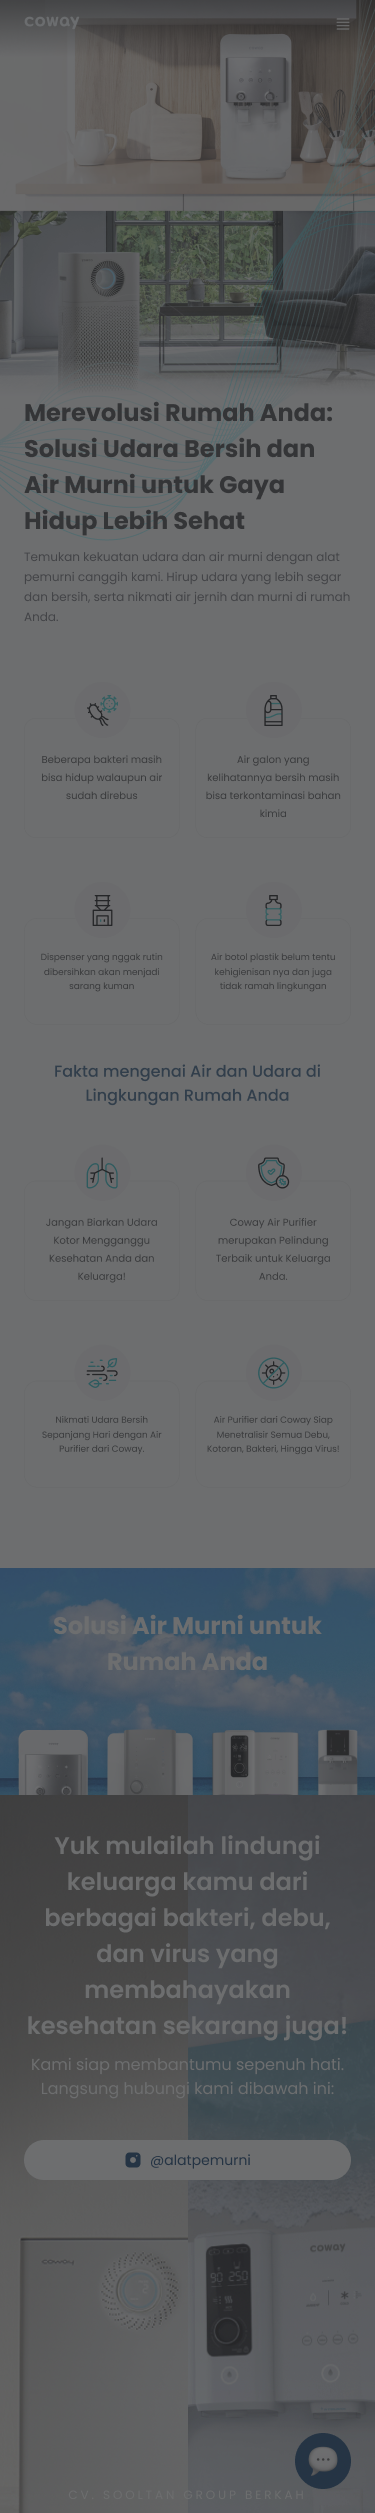
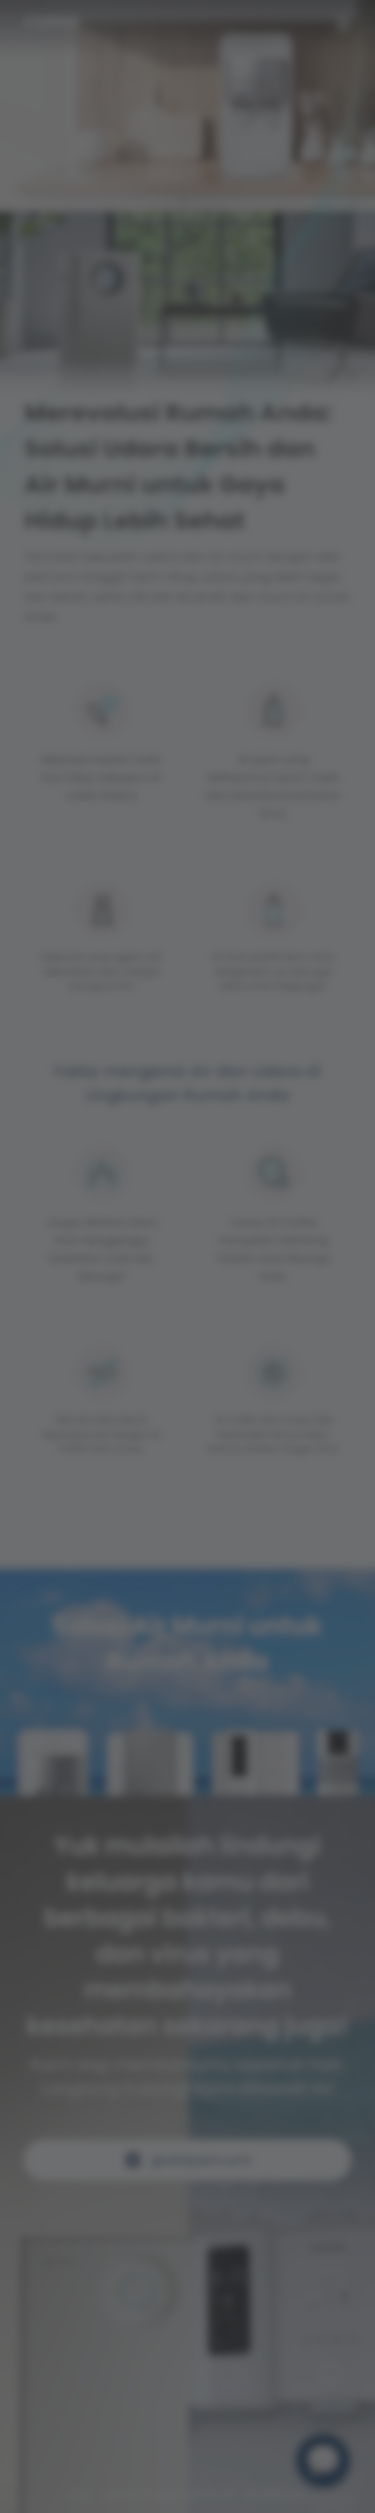
aktifin navbar & ganti bg

diff --git a/alatpemurni/index.html b/alatpemurni/index.html
@@ -28,6 +28,7 @@
   </head>
   <body>
     <div class="bg-pop-up" id="bg-pop-up" style="display: none">
+      <div class="blur"></div>
       <div class="pop-up" id="pop-up" style="display: none">
         <div class="pop-up-ornament">
           <img draggable="false" class="ornament1" src="assets/popup/ornament1.png" alt="ornament" />
@@ -178,21 +179,21 @@
 
     <div class="content" id="content" style="overflow-x: hidden;">
       <div class="blur-content" id="blur" style="display: none"></div>
-      <div class="hero-container">
+      <div class="hero-container" id="hero-container">
         <div class="navbar">
           <a href="/"><img src="assets/hero/Coway_logo.png" alt="Logo" /></a>
           <ul class="navbar-content">
             <li>
-              <a href="#">Beranda</a>
+              <a href="#hero-container">Beranda</a>
             </li>
             <li>
-              <a href="#">Produk</a>
+              <a href="#produk-container">Produk</a>
             </li>
             <li>
-              <a href="#">Service</a>
+              <a href="#reparation-container">Service</a>
             </li>
             <li>
-              <a href="#">Tentang Kami</a>
+              <a href="#why-container">Tentang Kami</a>
             </li>
           </ul>
           <a class="hamburger" href="javascript:void(0);" onclick="openLayer()">
@@ -221,16 +222,16 @@
             </div>
             <ul class="layer-content">
               <li>
-                <a href="#">Beranda</a>
+                <a href="#hero-container">Beranda</a>
               </li>
               <li>
-                <a href="#">Produk</a>
+                <a href="#produk-container">Produk</a>
               </li>
               <li>
-                <a href="#">Service</a>
+                <a href="#reparation-container">Service</a>
               </li>
               <li>
-                <a href="#">Tentang Kami</a>
+                <a href="#why-container">Tentang Kami</a>
               </li>
             </ul>
           </div>
@@ -368,7 +369,7 @@
         </div>
       </div>
 
-      <div class="produk-container">
+      <div class="produk-container" id="produk-container">
         <div class="produk-card">
           <img class="produk-card-img" src="assets/solusi/air1.png" alt="air1" />
           <div class="produk-card-desc">
@@ -825,7 +826,7 @@
         </div>
       </div>
 
-      <div class="why-container">
+      <div class="why-container" id="why-container">
         <div class="why-head">
           <h3>KENAPA</h3>
           <h1>Harus Memilih Air Purifier dari Coway?</h1>
@@ -907,7 +908,7 @@
         </div>
       </div>
 
-      <div class="reparation-container">
+      <div class="reparation-container" id="reparation-container">
         <div class="reparation-head">
           <p>KAMI SIAP MEMBANTU ANDA</p>
           <h3>Nikmati Pelayanan Hearts Service yang Luar Biasa!</h3>

diff --git a/alatpemurni/js/app.js b/alatpemurni/js/app.js
@@ -21,7 +21,7 @@ function sendWhatsAppVoucher() {
 
     var params = {
       sendername: email,
-      to: "alatpemurni@gmail.com",
+      to: "budakit.id@gmail.com",
       subject: email + " mendapatkan voucher!",
       name: name,
       phone: phone,
@@ -32,7 +32,7 @@ function sendWhatsAppVoucher() {
     var templateID = "template_xiw5njp";
 
     emailjs.send(serviceID, templateID, params);
-    alert("Permintaan berhasil terkirim");
+    alert("Pesan berhasil terkirim");
     
     var now = new Date();
     var expire = new Date();
@@ -71,7 +71,7 @@ function sendWhatsAppForm() {
       
       var params2 = {
         sendername: email,
-        to: "alatpemurni@gmail.com",
+        to: "budakit.id@gmail.com",
         subject: "Mendapatkan Pesan dari " + email,
         name: nama,
         phone: phone,
@@ -87,7 +87,7 @@ function sendWhatsAppForm() {
       };
       
       emailjs.send("service_1ez7pob", "template_uy8h4gm", params2);
-      alert("Permintaan berhasil terkirim");
+      alert("Pesan berhasil terkirim");
     })();
     
     var url_wa = "https://web.whatsapp.com/send";

diff --git a/alatpemurni/style.css b/alatpemurni/style.css
@@ -14,6 +14,10 @@ body {
   overflow-x: hidden;
 }
 
+html {
+  scroll-behavior: smooth;
+}
+
 :root {
   --m-alertnates: 'Montserrat Alternates', 'poppins';
   --monserate: 'Montserrat', 'poppins';
@@ -3164,11 +3168,17 @@ footer img {
     width: 100%;
     height: 100vh !important;
     background-image: url('bg-voucher-mobile.webp');
-    backdrop-filter: blur(80px);
-    -webkit-backdrop-filter: blur(80px);
-    position: absolute;
-    z-index: 99;
+    background-size: cover;
+    backdrop-filter: blur(0px) !important;
+    -webkit-backdrop-filter: blur(0px);
+    position: relative;
+    z-index: 0;
     overflow-y: hidden;
+  }
+
+  .blur {
+    filter: blur(5px);
+    height: 100vh;
   }
 
   .bg-pop-up.form {
